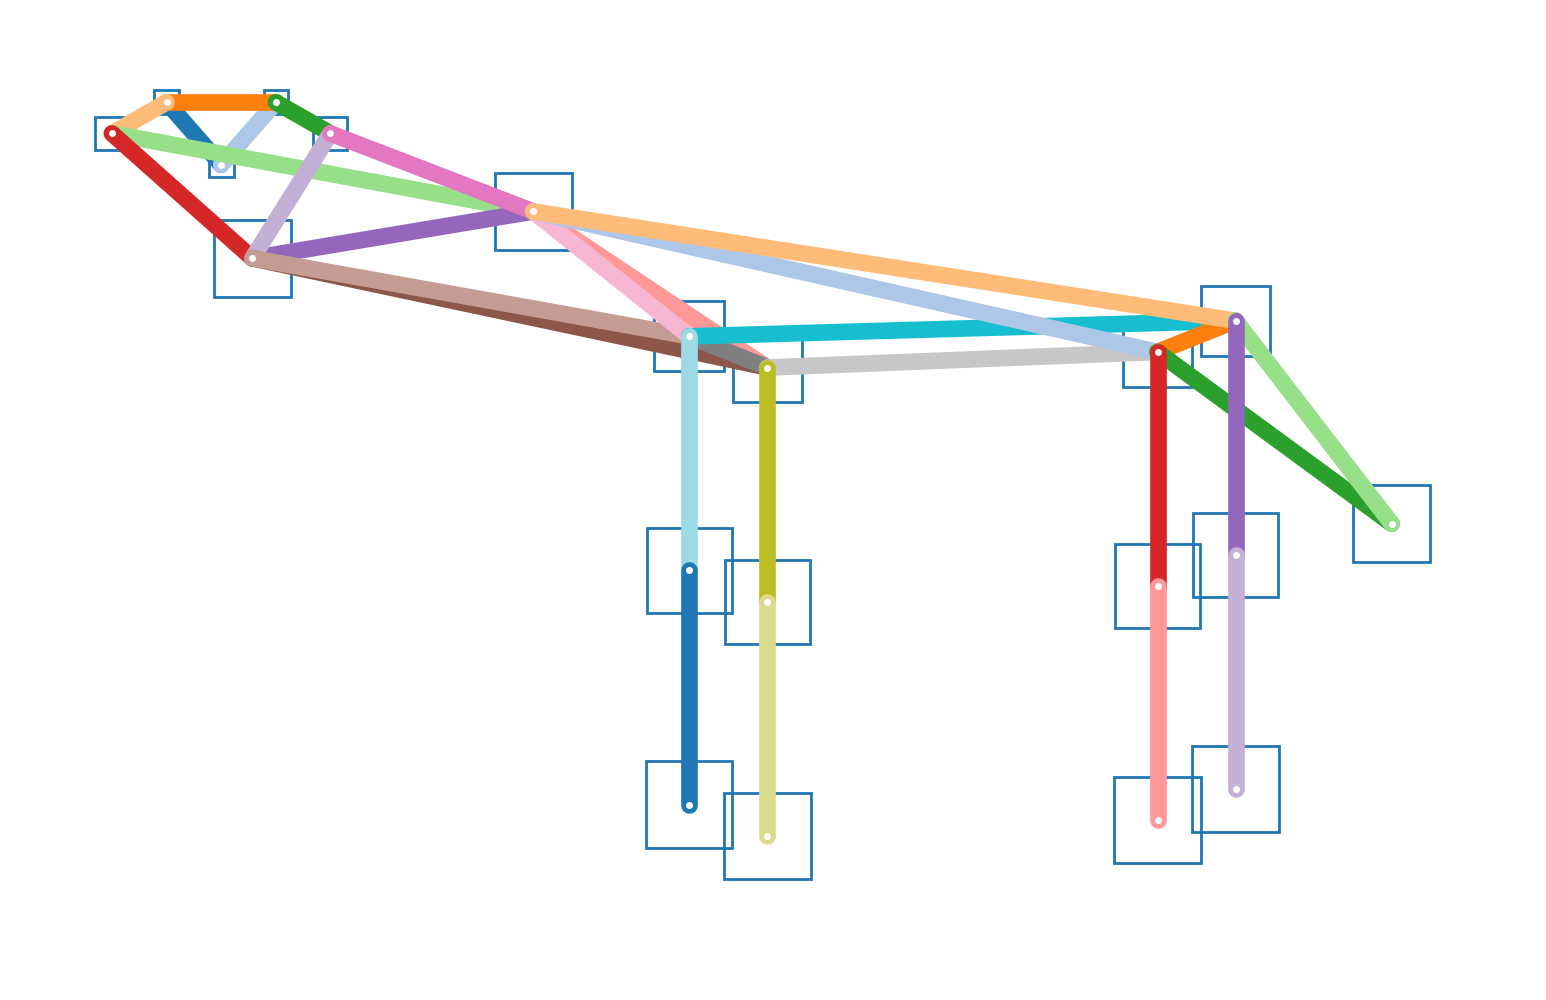
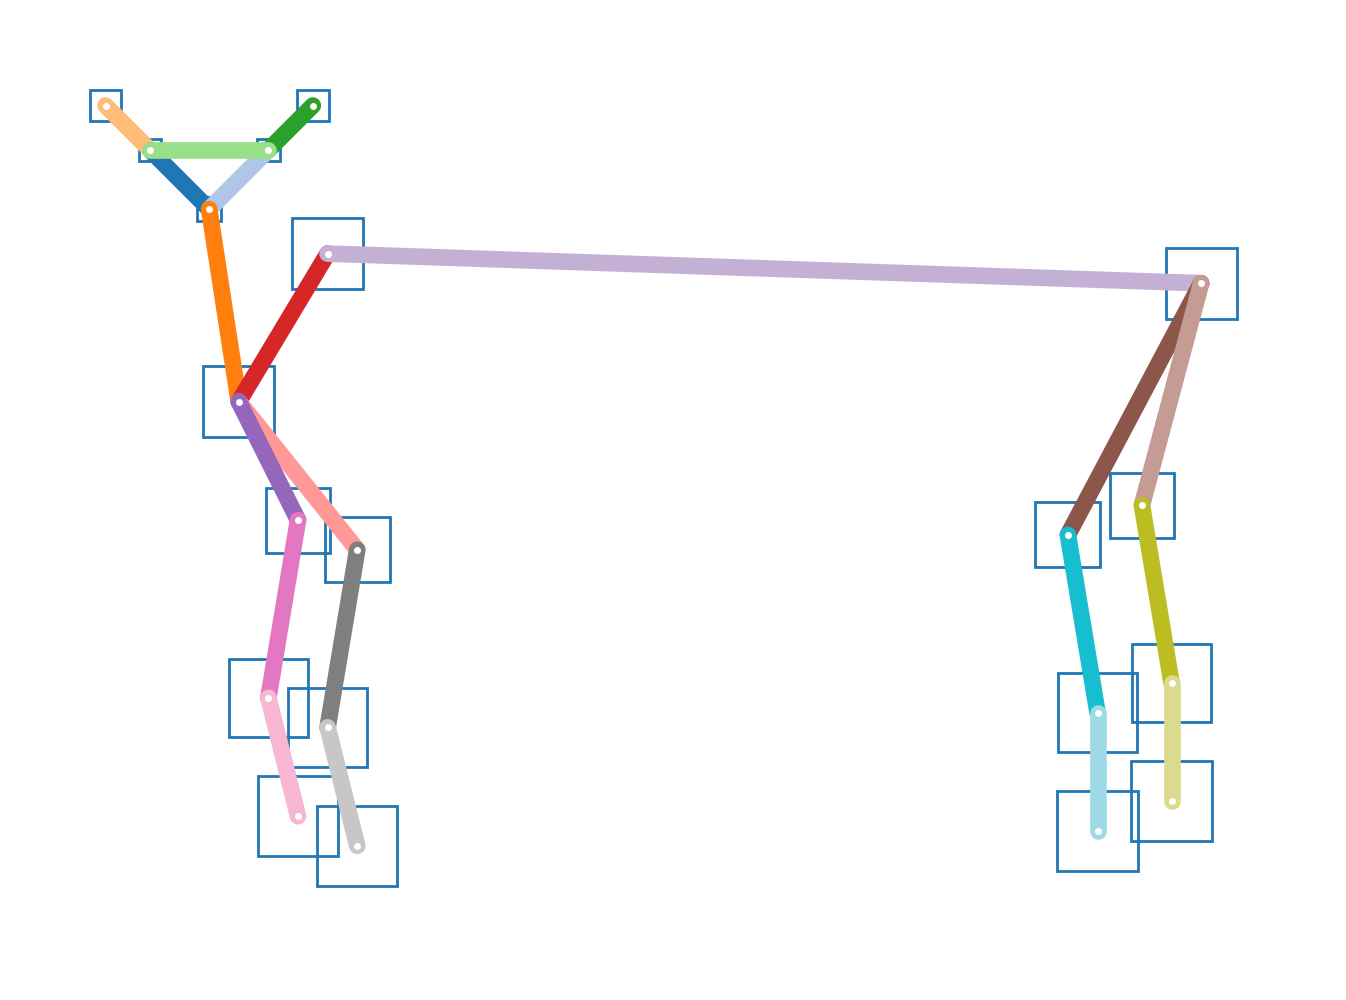
update skeleton and connections

Changed region(s): [[0.0624, 0.093, 0.9049, 0.899], [0.8425, 0.837, 0.8737, 0.868]]

diff --git a/openpifpaf_animalpose/constants.py b/openpifpaf_animalpose/constants.py
@@ -72,10 +72,15 @@ ALTERNATIVE_NAMES = [
 
 
 ANIMAL_SKELETON = [
-    (1, 2), (1, 3), (2, 3), (2, 4), (3, 5), (4, 8), (4, 6), (8, 9), (5, 6), (6, 9), (6, 10), (5, 8), (8, 10),
-    (9, 10), (9, 11), (9, 13), (13, 17), (10, 12), (10, 14), (14, 18), (8, 11), (11, 12), (8, 12), (11, 7), (12, 7),
-    (11, 15), (15, 19), (12, 16), (16, 20)
+    (1, 2), (1, 3), (1, 6), (2, 4), (3, 5), (2, 3), (6, 8), (6, 9), (6, 10), (7, 8), (7, 11), (7, 12),  # Torso, face
+    (10, 14), (14, 18), (9, 13), (13, 17), (12, 16), (16, 20), (11, 15), (15, 19)  # Legs
 ]
+
+# ANIMAL_SKELETON = [
+#     (1, 2), (1, 3), (2, 3), (2, 4), (3, 5), (4, 8), (4, 6), (8, 9), (5, 6), (6, 9), (6, 10), (5, 8), (8, 10),
+#     (9, 10), (9, 11), (9, 13), (13, 17), (10, 12), (10, 14), (14, 18), (8, 11), (11, 12), (8, 12), (11, 7), (12, 7),
+#     (11, 15), (15, 19), (12, 16), (16, 20)
+# ]
 
 ANIMAL_SIGMAS = [
     0.026,  # nose
@@ -107,24 +112,24 @@ ANIMAL_CATEGORIES = ['animal']
 
 ANIMAL_POSE = np.array([
     [0.0, 4.3, 2.0],  # 'nose',            # 1
-    [-0.35, 4.7, 2.0],  # 'left_eye',        # 2
-    [0.35, 4.7, 2.0],  # 'right_eye',       # 3
-    [-0.7, 4.5, 2.0],  # 'left_ear',        # 4
-    [0.7, 4.5, 2.0],  # 'right_ear',       # 5
-    [0.2, 3.7, 2.0],  # 'throat',            # 6
-    [7.5, 2.0, 2.0],  # 'tail',                   # 7
-    [2, 4.0, 2.0],  # 'withers',         # 8
-    [3.5, 3.0, 2.0],  # 'L_F_elbow',      # 9
-    [3, 3.2, 2.0],  # 'R_F_elbow',     # 10
-    [6, 3.1, 2.0],  # 'L_B_elbow',      # 11
-    [6.5, 3.3, 2.0],  # 'R_B_elbow',     # 12
-    [3.5, 1.5, 2.0],  # 'L_F_Knee',     # 13
-    [3, 1.7, 2.0],  # 'R_F_Knee',     # 14
-    [6, 1.6, 2.0],  # 'L_B_Knee',     # 15
-    [6.5, 1.8, 2.0],  # 'R_B_Knee',     # 16
-    [3.5, 0.0, 2.0],  # 'L_F_Paw',      # 17
-    [3, 0.2, 2.0],  # 'R_F_Paw',      # 18
-    [6, 0.1, 2.0],  # 'L_B_Paw',      # 19
+    [-0.4, 4.7, 2.0],  # 'left_eye',        # 2
+    [0.4, 4.7, 2.0],  # 'right_eye',       # 3
+    [-0.7, 5.0, 2.0],  # 'left_ear',        # 4
+    [0.7, 5.0, 2.0],  # 'right_ear',       # 5
+    [0.2, 3.0, 2.0],  # 'throat',            # 6
+    [6.7, 3.8, 2.0],  # 'tail',             # 7
+    [0.8, 4.0, 2.0],  # 'withers',         # 8
+    [1.0, 2.0, 2.0],  # 'L_F_elbow',      # 9
+    [0.6, 2.2, 2.0],  # 'R_F_elbow',     # 10
+    [5.8, 2.1, 2.0],  # 'L_B_elbow',      # 11
+    [6.3, 2.3, 2.0],  # 'R_B_elbow',     # 12
+    [0.8, 0.8, 2.0],  # 'L_F_Knee',     # 13
+    [0.4, 1.0, 2.0],  # 'R_F_Knee',     # 14
+    [6.0, 0.9, 2.0],  # 'L_B_Knee',     # 15
+    [6.5, 1.1, 2.0],  # 'R_B_Knee',     # 16
+    [1.0, 0.0, 2.0],  # 'L_F_Paw',      # 17
+    [0.6, 0.2, 2.0],  # 'R_F_Paw',      # 18
+    [6.0, 0.1, 2.0],  # 'L_B_Paw',      # 19
     [6.5, 0.3, 2.0],  # 'R_B_Paw',      # 20
 ])
 
